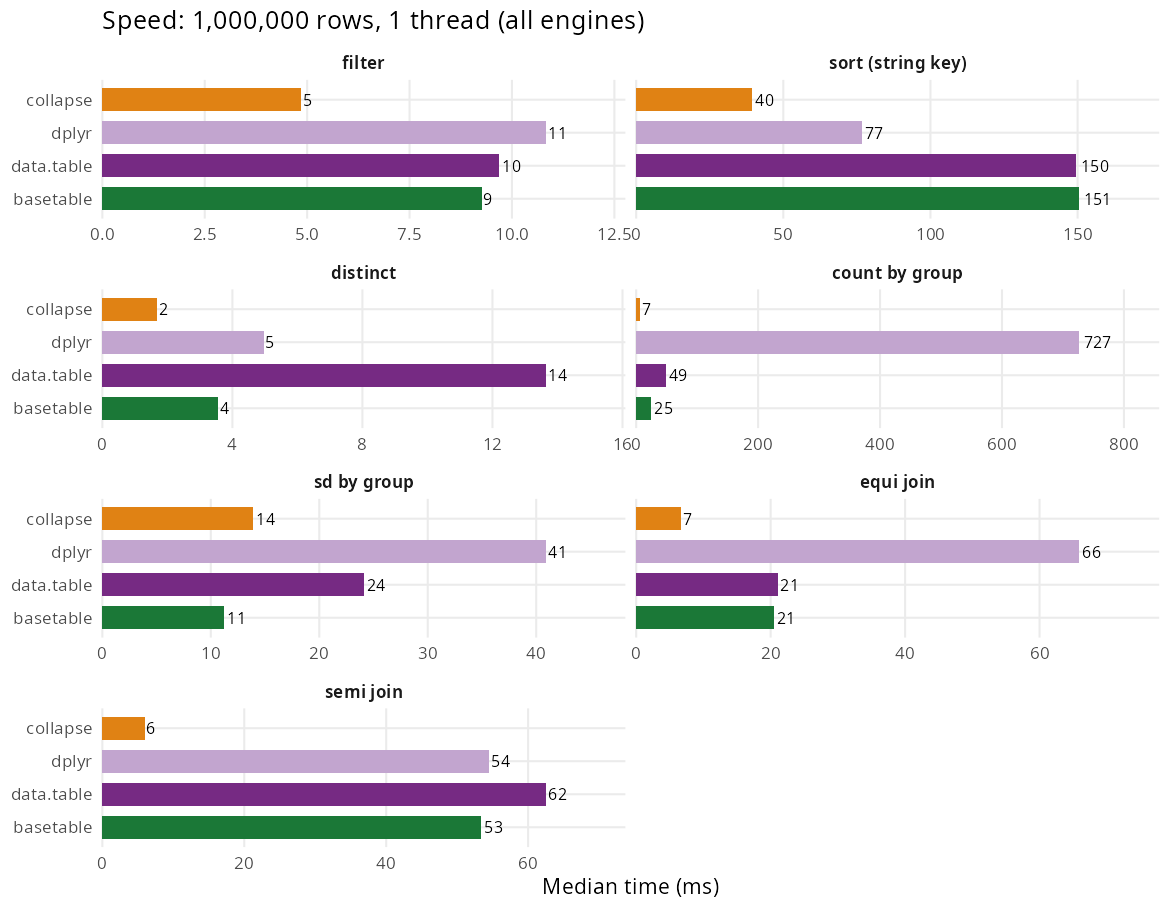
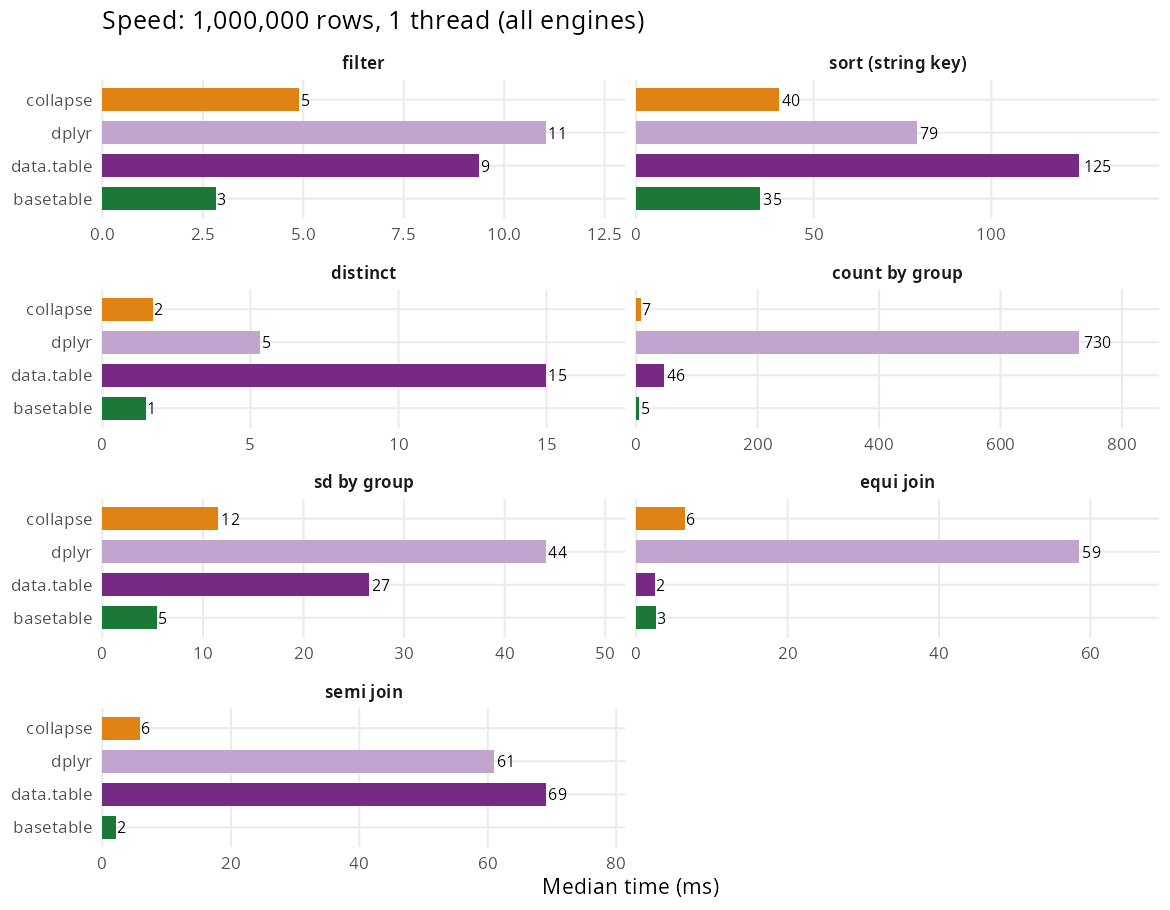
Regenerate benchmark figures and tables after engine tuning

diff --git a/inst/benchmarks/benchmark-results.md b/inst/benchmarks/benchmark-results.md
@@ -4,22 +4,22 @@
 
 | Operation | basetable | data.table | dplyr | collapse | basetable mem | data.table mem | dplyr mem | collapse mem |
 | --- | ---: | ---: | ---: | ---: | ---: | ---: | ---: | ---: |
-| filter | 7 ms | 12 ms | 11 ms | 5 ms | 14.51 MB | 21.19 MB | 28.34 MB | 19.42 MB |
-| sort (string key) | 52 ms | 52 ms | 123 ms | 50 ms | 34.37 MB | 46.85 MB | 68.83 MB | 38.23 MB |
-| distinct | 4 ms | 8 ms | 5 ms | 3 ms | 0.03 MB | 19.59 MB | 12.02 MB | 3.92 MB |
-| count by group | 20 ms | 44 ms | 675 ms | 6 ms | 1.16 MB | 30.27 MB | 29.72 MB | 5.47 MB |
-| sd by group | 8 ms | 18 ms | 57 ms | 14 ms | 0.05 MB | 26.91 MB | 36.02 MB | 4.25 MB |
-| equi join | 19 ms | 19 ms | 48 ms | 5 ms | 7.64 MB | 7.63 MB | 101.08 MB | 11.75 MB |
-| semi join | 10 ms | 51 ms | 46 ms | 4 ms | 3.84 MB | 57.80 MB | 81.57 MB | 3.81 MB |
+| filter | 2 ms | 15 ms | 12 ms | 5 ms | 14.51 MB | 21.19 MB | 28.34 MB | 19.42 MB |
+| sort (string key) | 22 ms | 49 ms | 95 ms | 44 ms | 34.37 MB | 46.85 MB | 68.83 MB | 38.23 MB |
+| distinct | 1 ms | 7 ms | 6 ms | 3 ms | 0.03 MB | 19.59 MB | 12.02 MB | 3.92 MB |
+| count by group | 5 ms | 53 ms | 678 ms | 8 ms | 1.16 MB | 30.27 MB | 29.72 MB | 5.47 MB |
+| sd by group | 7 ms | 41 ms | 41 ms | 11 ms | 0.05 MB | 26.91 MB | 36.02 MB | 4.25 MB |
+| equi join | 2 ms | 4 ms | 50 ms | 5 ms | 7.64 MB | 7.63 MB | 101.08 MB | 11.75 MB |
+| semi join | 2 ms | 47 ms | 43 ms | 4 ms | 3.84 MB | 57.80 MB | 81.57 MB | 3.81 MB |
 
 ### Single thread (basetable, data.table and collapse pinned to 1)
 
 | Operation | basetable | data.table | dplyr | collapse | basetable mem | data.table mem | dplyr mem | collapse mem |
 | --- | ---: | ---: | ---: | ---: | ---: | ---: | ---: | ---: |
-| filter | 9 ms | 10 ms | 11 ms | 5 ms | 10.58 MB | 19.40 MB | 27.01 MB | 19.38 MB |
-| sort (string key) | 151 ms | 150 ms | 77 ms | 40 ms | 34.33 MB | 46.75 MB | 68.11 MB | 38.15 MB |
-| distinct | 4 ms | 14 ms | 5 ms | 2 ms | 0.02 MB | 19.18 MB | 11.85 MB | 3.84 MB |
-| count by group | 25 ms | 49 ms | 727 ms | 7 ms | 1.14 MB | 29.41 MB | 28.80 MB | 5.34 MB |
-| sd by group | 11 ms | 24 ms | 41 ms | 14 ms | 0.03 MB | 26.84 MB | 35.99 MB | 3.89 MB |
-| equi join | 21 ms | 21 ms | 66 ms | 7 ms | 7.63 MB | 7.63 MB | 100.60 MB | 11.44 MB |
-| semi join | 53 ms | 62 ms | 54 ms | 6 ms | 3.81 MB | 57.37 MB | 81.52 MB | 3.81 MB |
+| filter | 3 ms | 9 ms | 11 ms | 5 ms | 10.58 MB | 19.40 MB | 27.01 MB | 19.38 MB |
+| sort (string key) | 35 ms | 125 ms | 79 ms | 40 ms | 34.33 MB | 46.75 MB | 68.11 MB | 38.15 MB |
+| distinct | 1 ms | 15 ms | 5 ms | 2 ms | 0.02 MB | 19.18 MB | 11.85 MB | 3.84 MB |
+| count by group | 5 ms | 46 ms | 730 ms | 7 ms | 1.14 MB | 29.41 MB | 28.80 MB | 5.34 MB |
+| sd by group | 5 ms | 27 ms | 44 ms | 12 ms | 0.03 MB | 26.84 MB | 35.99 MB | 3.89 MB |
+| equi join | 3 ms | 2 ms | 59 ms | 6 ms | 7.63 MB | 7.63 MB | 100.60 MB | 11.44 MB |
+| semi join | 2 ms | 69 ms | 61 ms | 6 ms | 3.81 MB | 57.37 MB | 81.52 MB | 3.81 MB |
